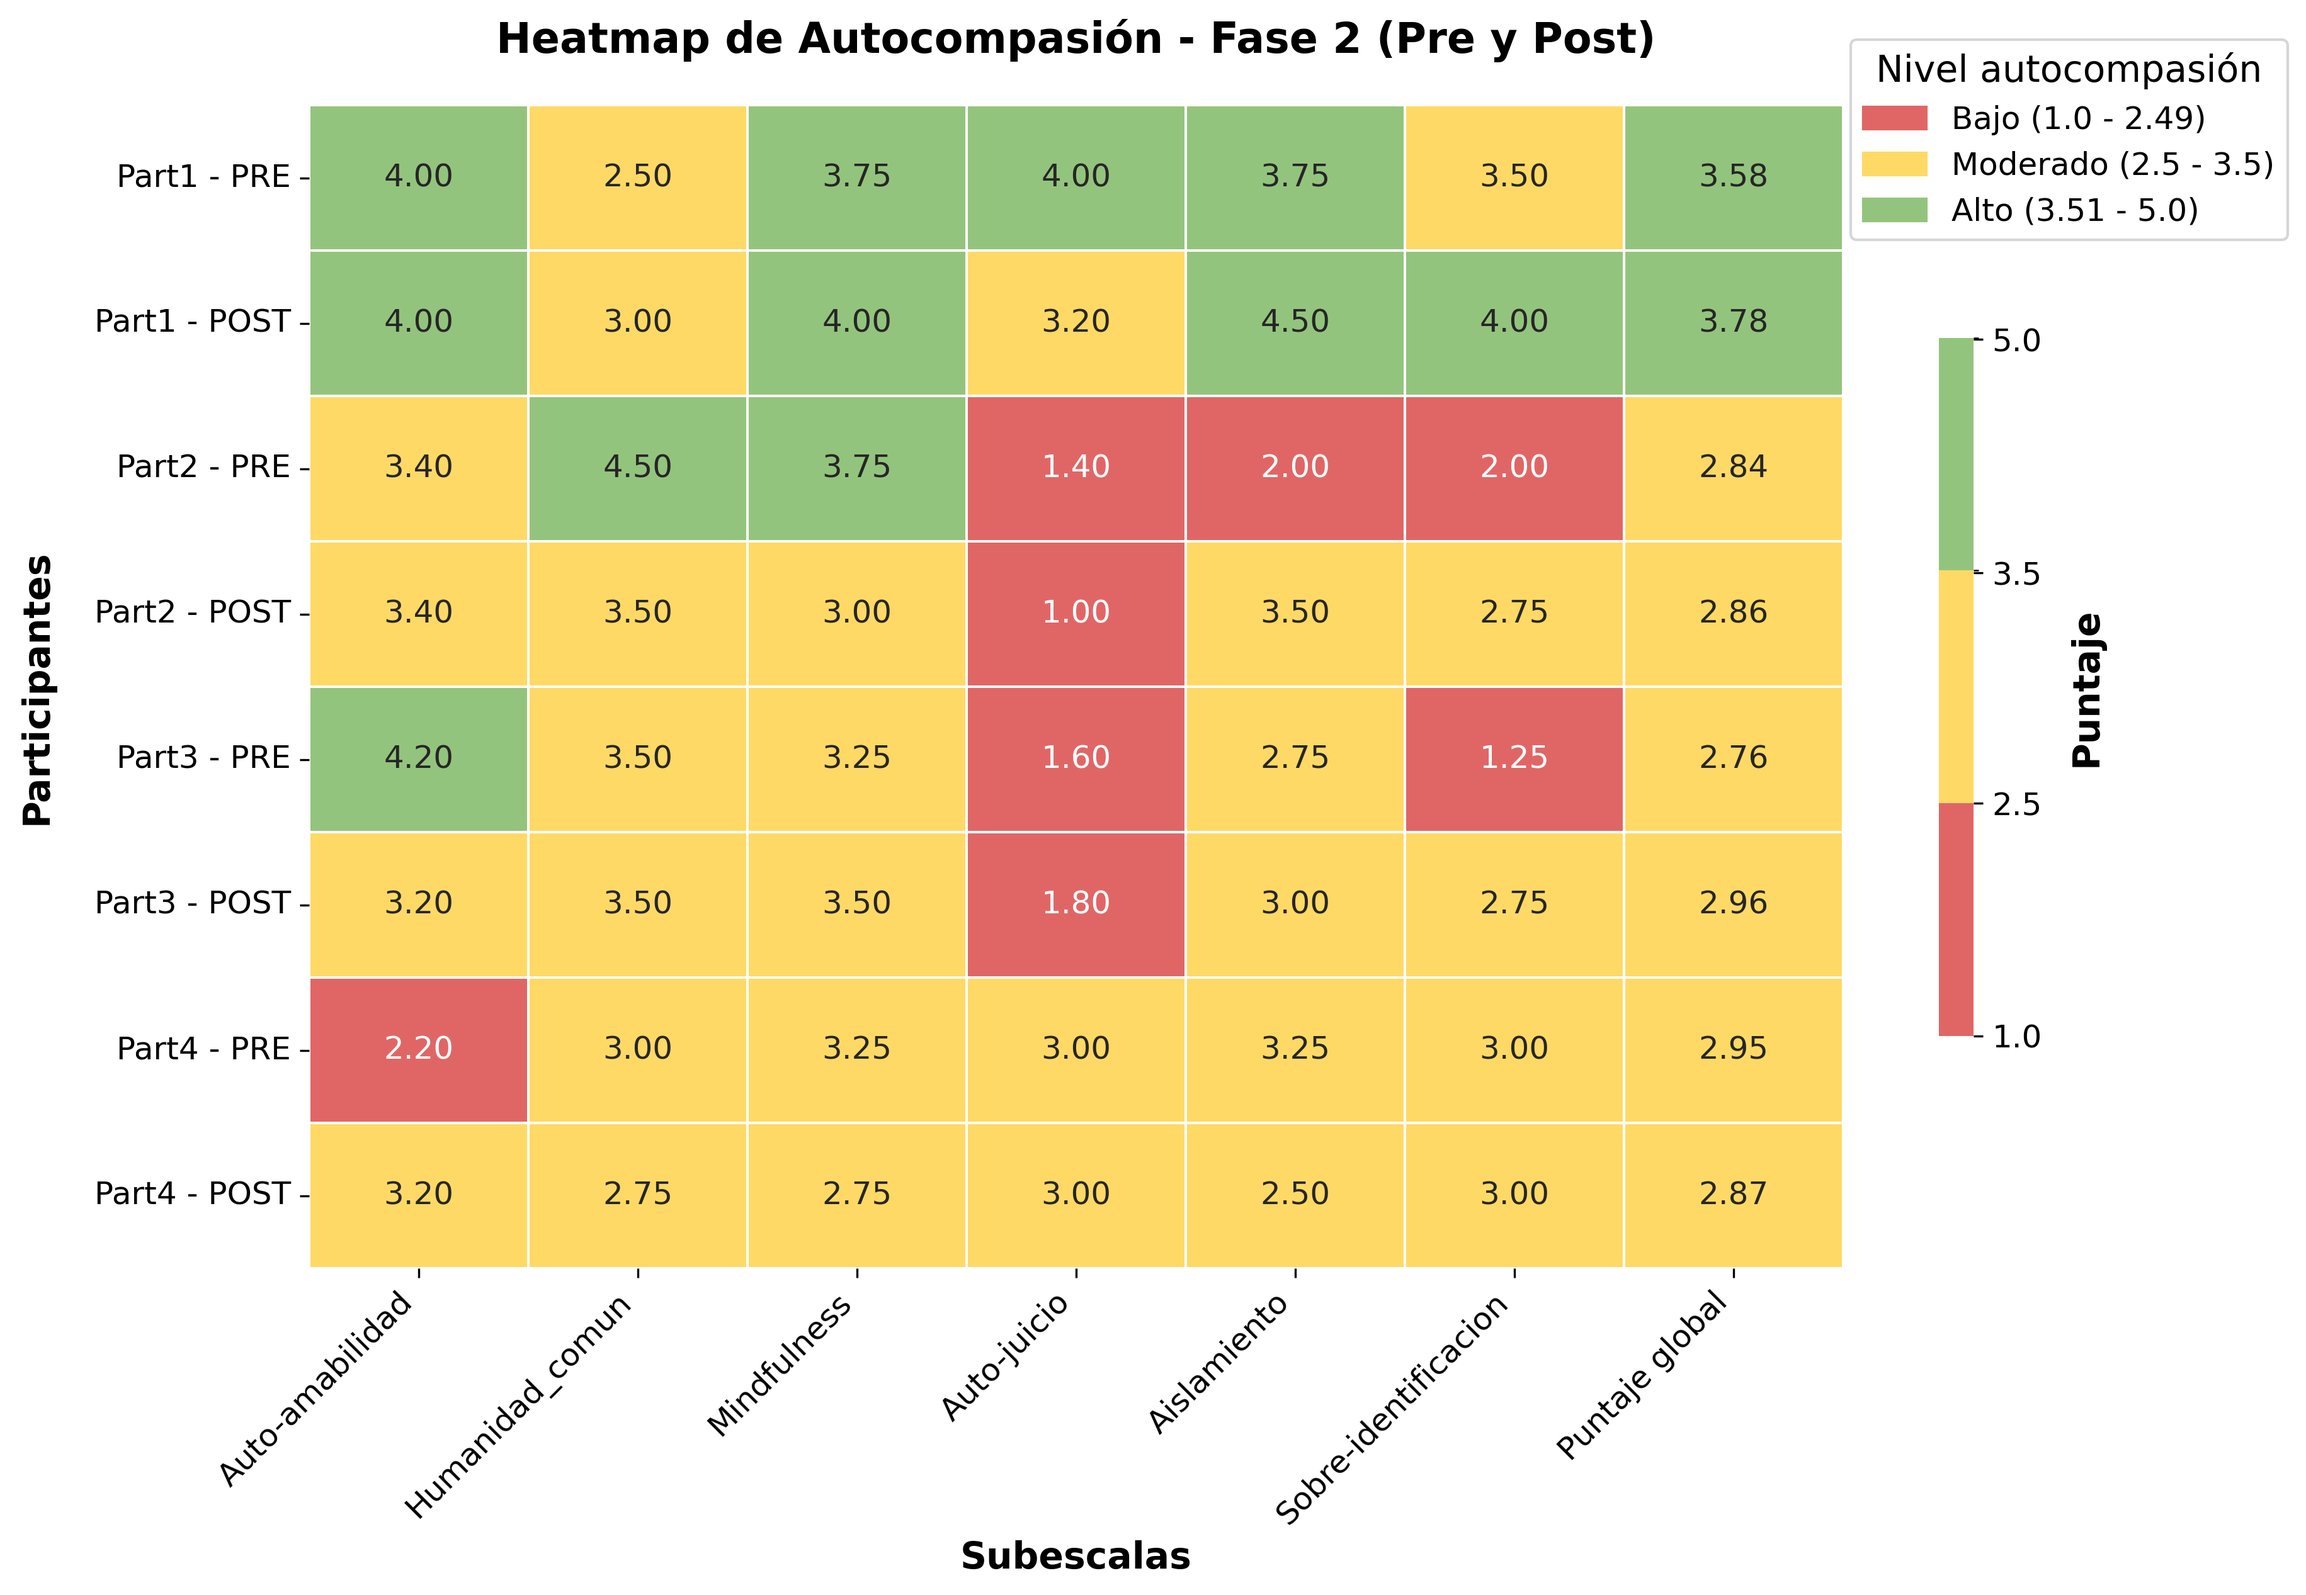
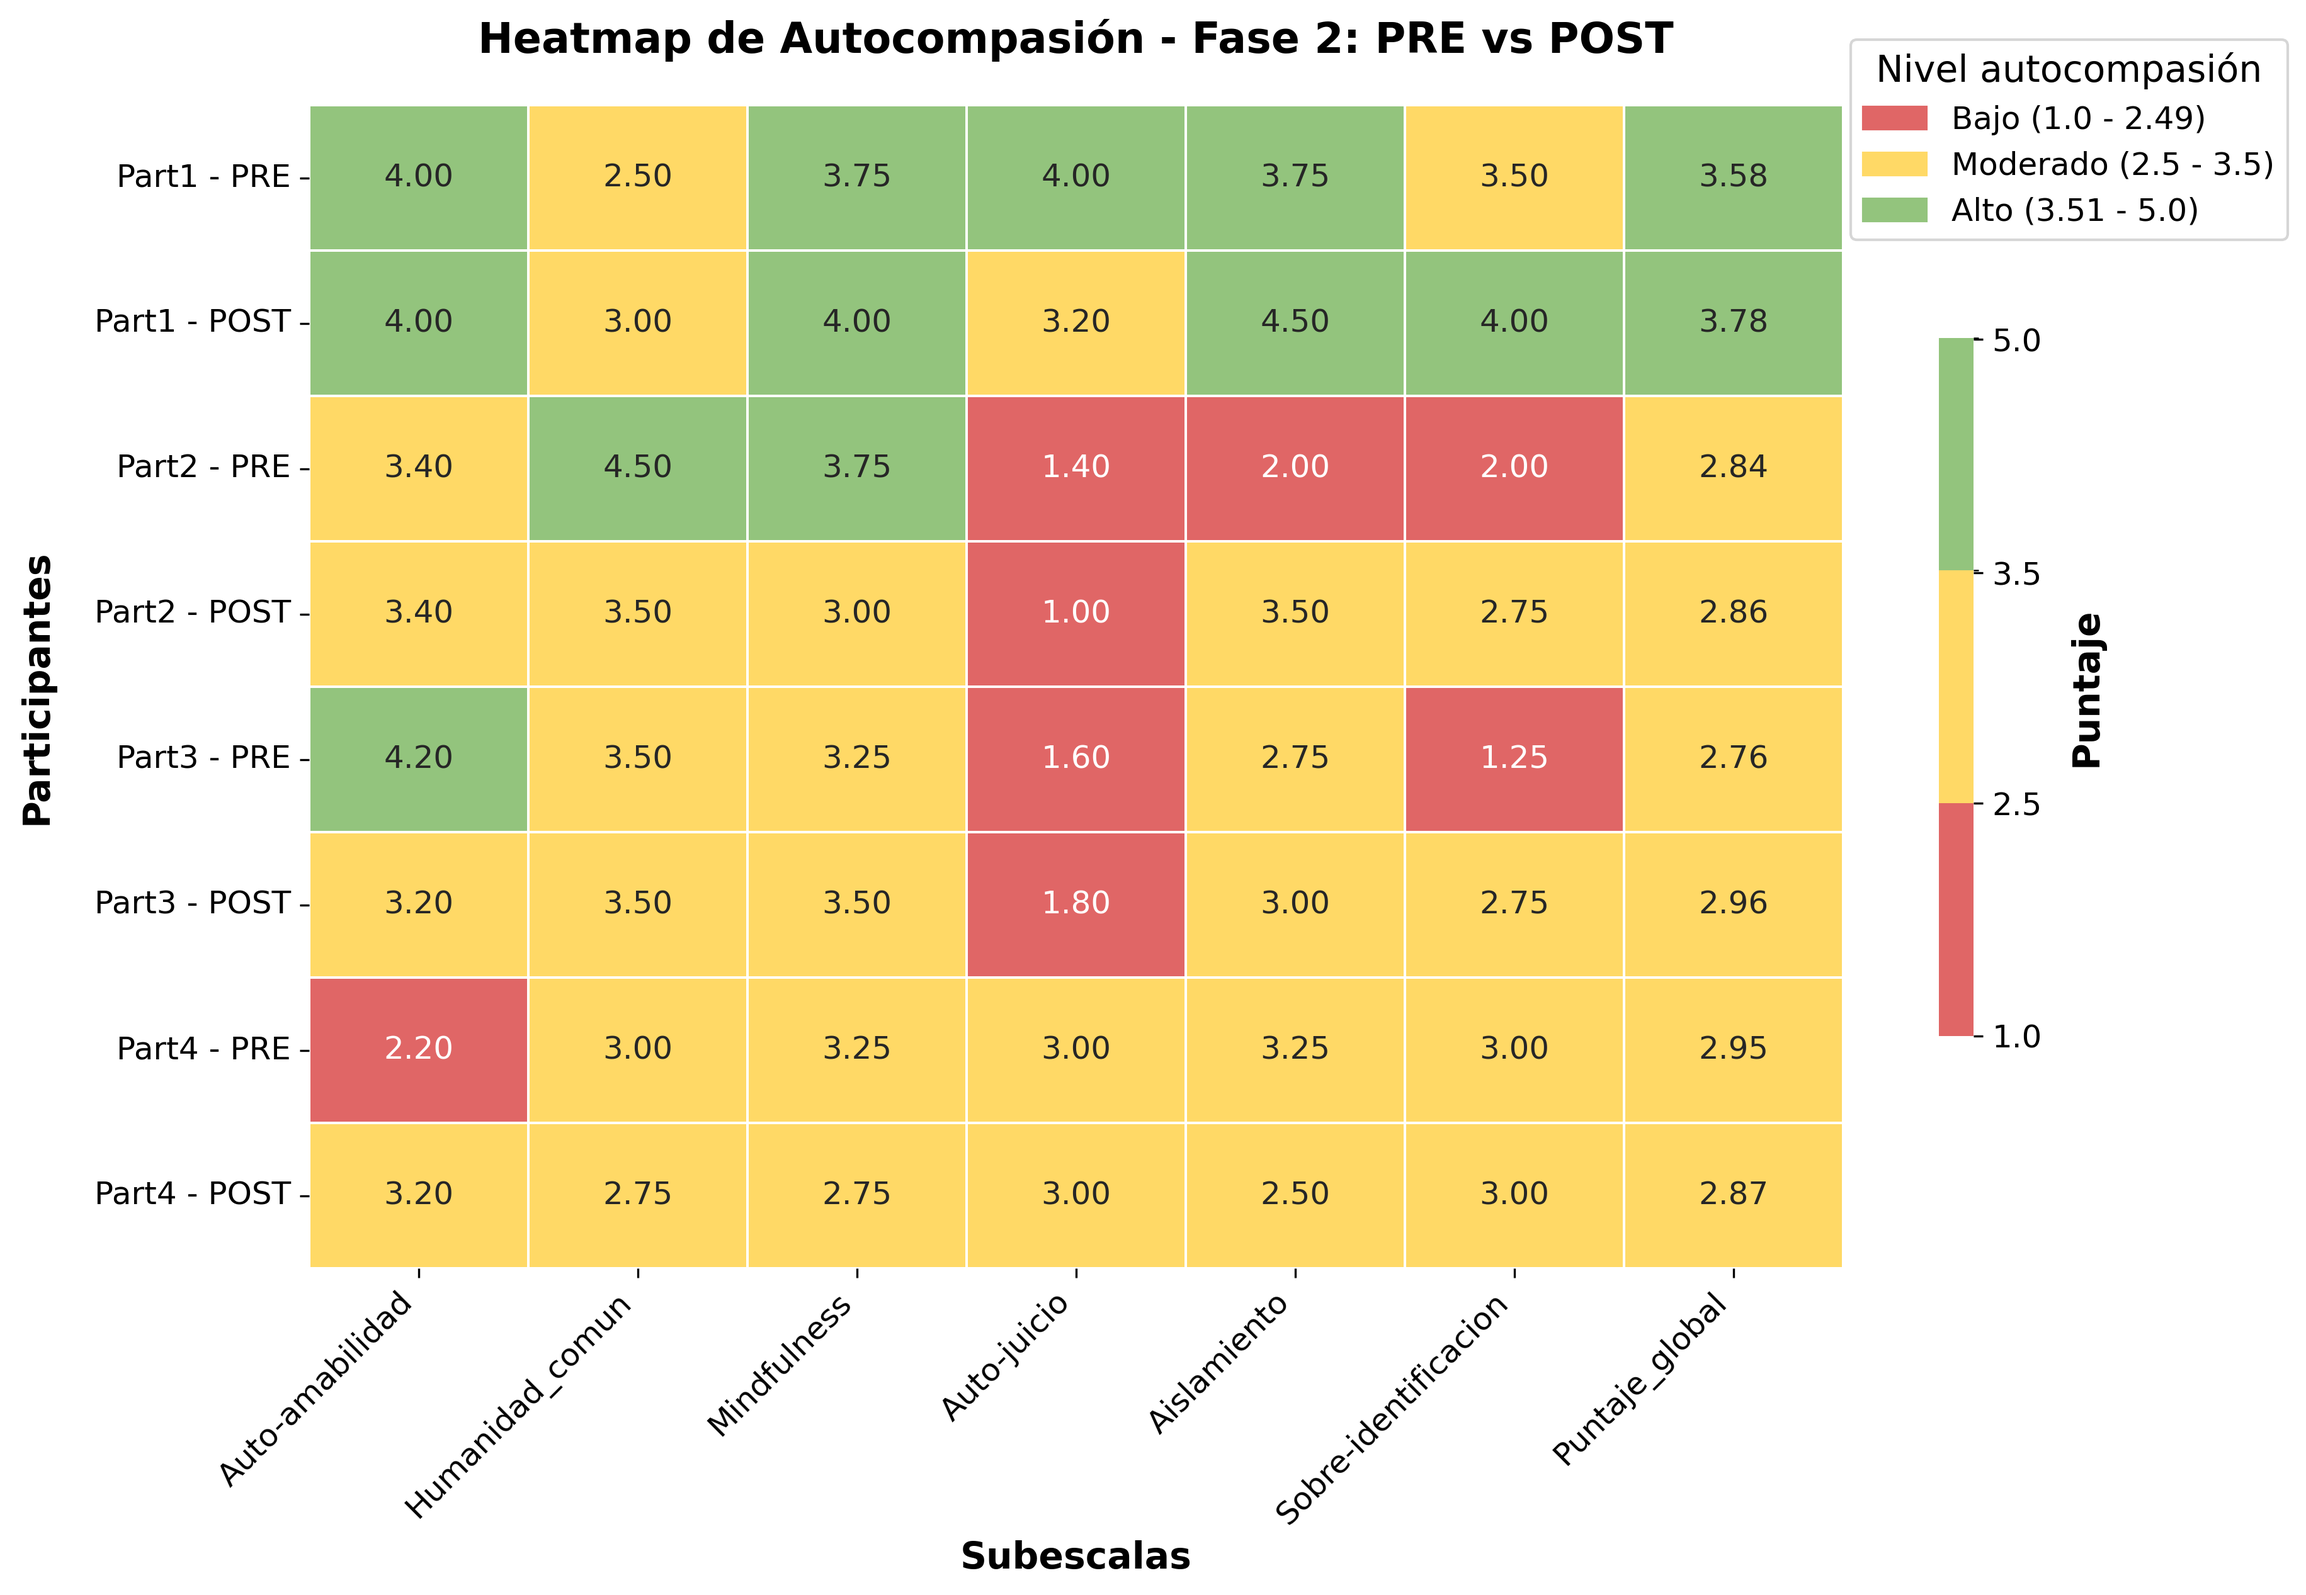
se agrego imagen con subgraficos de metricas. Se estandarizo el titulo de las figuras de autocompasion

Changed region(s): [[0.2179, 0.0, 0.716, 0.0312], [0.716, 0.8106, 0.7471, 0.8729], [0.6849, 0.8729, 0.716, 0.9041]]

diff --git a/Metricas/graficos_grupo/all_together.py b/Metricas/graficos_grupo/all_together.py
@@ -1,0 +1,88 @@
+import os
+from PIL import Image, ImageDraw
+
+
+def compose_grid(image_paths, output_path, rows=3, cols=2, padding=20, background_color=(255, 255, 255)):
+    """Compose images into a rows x cols grid and save as a single PNG.
+
+    - image_paths: list of absolute file paths in reading order (row-major)
+    - output_path: absolute path to save the composed PNG
+    - padding: pixels between tiles and around the border
+    - background_color: RGB background color
+    """
+    if len(image_paths) != rows * cols:
+        raise ValueError(f"Expected {rows*cols} images, got {len(image_paths)}")
+
+    images = [Image.open(p).convert("RGB") for p in image_paths]
+
+    # Choose a common tile size. To avoid upscaling (which reduces quality),
+    # use the minimum width/height across images.
+    min_width = min(img.width for img in images)
+    min_height = min(img.height for img in images)
+    tile_size = (min_width, min_height)
+
+    resized = [img.resize(tile_size, Image.LANCZOS) for img in images]
+
+    # Compute canvas size: include outer padding and inner paddings between tiles
+    canvas_width = padding + cols * tile_size[0] + (cols - 1) * padding + padding
+    canvas_height = padding + rows * tile_size[1] + (rows - 1) * padding + padding
+
+    canvas = Image.new("RGB", (canvas_width, canvas_height), color=background_color)
+
+    # Paste images row-major
+    idx = 0
+    for r in range(rows):
+        for c in range(cols):
+            x = padding + c * (tile_size[0] + padding)
+            y = padding + r * (tile_size[1] + padding)
+            canvas.paste(resized[idx], (x, y))
+            idx += 1
+
+    # Draw divider lines centered in the gaps between tiles
+    draw = ImageDraw.Draw(canvas)
+    line_color = (200, 200, 200)
+    line_width = 4
+
+    # Vertical separators (between columns)
+    for c in range(1, cols):
+        x_sep = padding + c * tile_size[0] + (c * padding) - padding // 2
+        draw.line([(x_sep, padding), (x_sep, canvas_height - padding)], fill=line_color, width=line_width)
+
+    # Horizontal separators (between rows)
+    for r in range(1, rows):
+        y_sep = padding + r * tile_size[1] + (r * padding) - padding // 2
+        draw.line([(padding, y_sep), (canvas_width - padding, y_sep)], fill=line_color, width=line_width)
+
+    # Overwrite if exists; PNG doesn't meaningfully use DPI, but the pixel size stays high.
+    canvas.save(output_path, format="PNG", optimize=True)
+
+
+def main():
+    script_dir = os.path.dirname(os.path.abspath(__file__))
+
+    # Explicit list (avoids picking up all_together.png on subsequent runs)
+    ordered_files = [
+        "flower_openings_grupo.png",
+        "time_flower_open_grupo.png",
+        "collider_entries_grupo.png",
+        "time_in_collider_grupo.png",
+        "sound_decrements_grupo.png",
+        "time_stationary_grupo.png",
+    ]
+
+    image_paths = [os.path.join(script_dir, name) for name in ordered_files]
+    missing = [p for p in image_paths if not os.path.isfile(p)]
+    if missing:
+        missing_names = ", ".join(os.path.basename(p) for p in missing)
+        raise FileNotFoundError(f"Missing input images: {missing_names}")
+
+    output_path = os.path.join(script_dir, "all_together.png")
+
+    compose_grid(image_paths, output_path, rows=3, cols=2, padding=30, background_color=(255, 255, 255))
+    print(f"Imagen combinada guardada en: {output_path}")
+
+
+if __name__ == "__main__":
+    main()
+
+

diff --git a/Autocompasion/Graficos/heatmap_autocompasion.py b/Autocompasion/Graficos/heatmap_autocompasion.py
@@ -35,7 +35,7 @@ def create_autocompasion_heatmap():
     # Seleccionar las columnas para el heatmap
     columns_to_plot = [
         'Auto-amabilidad', 'Humanidad_comun', 'Mindfulness', 
-        'Auto-juicio', 'Aislamiento', 'Sobre-identificacion', 'Puntaje global'
+        'Auto-juicio', 'Aislamiento', 'Sobre-identificacion', 'Puntaje_global'
     ]
     
     # Crear la matriz de datos para el heatmap (respetando el orden definido)
@@ -79,7 +79,7 @@ def create_autocompasion_heatmap():
     cbar.ax.set_ylabel('Puntaje', fontsize=14, fontweight='bold', labelpad=10)
     
     # Configurar etiquetas y título
-    plt.title('Heatmap de Autocompasión - Fase 2 (Pre y Post)', 
+    plt.title('Heatmap de Autocompasión - Fase 2: PRE vs POST', 
               fontsize=16, fontweight='bold', pad=20)
     plt.xlabel('Subescalas', fontsize=14, fontweight='bold')
     plt.ylabel('Participantes', fontsize=14, fontweight='bold', labelpad=15)

diff --git a/Autocompasion/Graficos/puntajes_globales_individuales.py b/Autocompasion/Graficos/puntajes_globales_individuales.py
@@ -54,7 +54,7 @@ bars2 = ax.bar(x + width/2, post_scores, width, label='POST', color='dimgray', e
 # Configurar el eje X
 ax.set_xlabel('Participantes', fontsize=14, fontweight='bold', labelpad=15)
 ax.set_ylabel('Puntaje global EAC', fontsize=14, fontweight='bold', labelpad=15)
-ax.set_title('Puntajes globales individuales - PRE vs POST', fontsize=16, fontweight='bold', pad=20)
+ax.set_title('Puntajes globales individuales - Fase 2: PRE vs POST', fontsize=16, fontweight='bold', pad=20)
 
 # Configurar las etiquetas del eje X
 ax.set_xticks(x)
